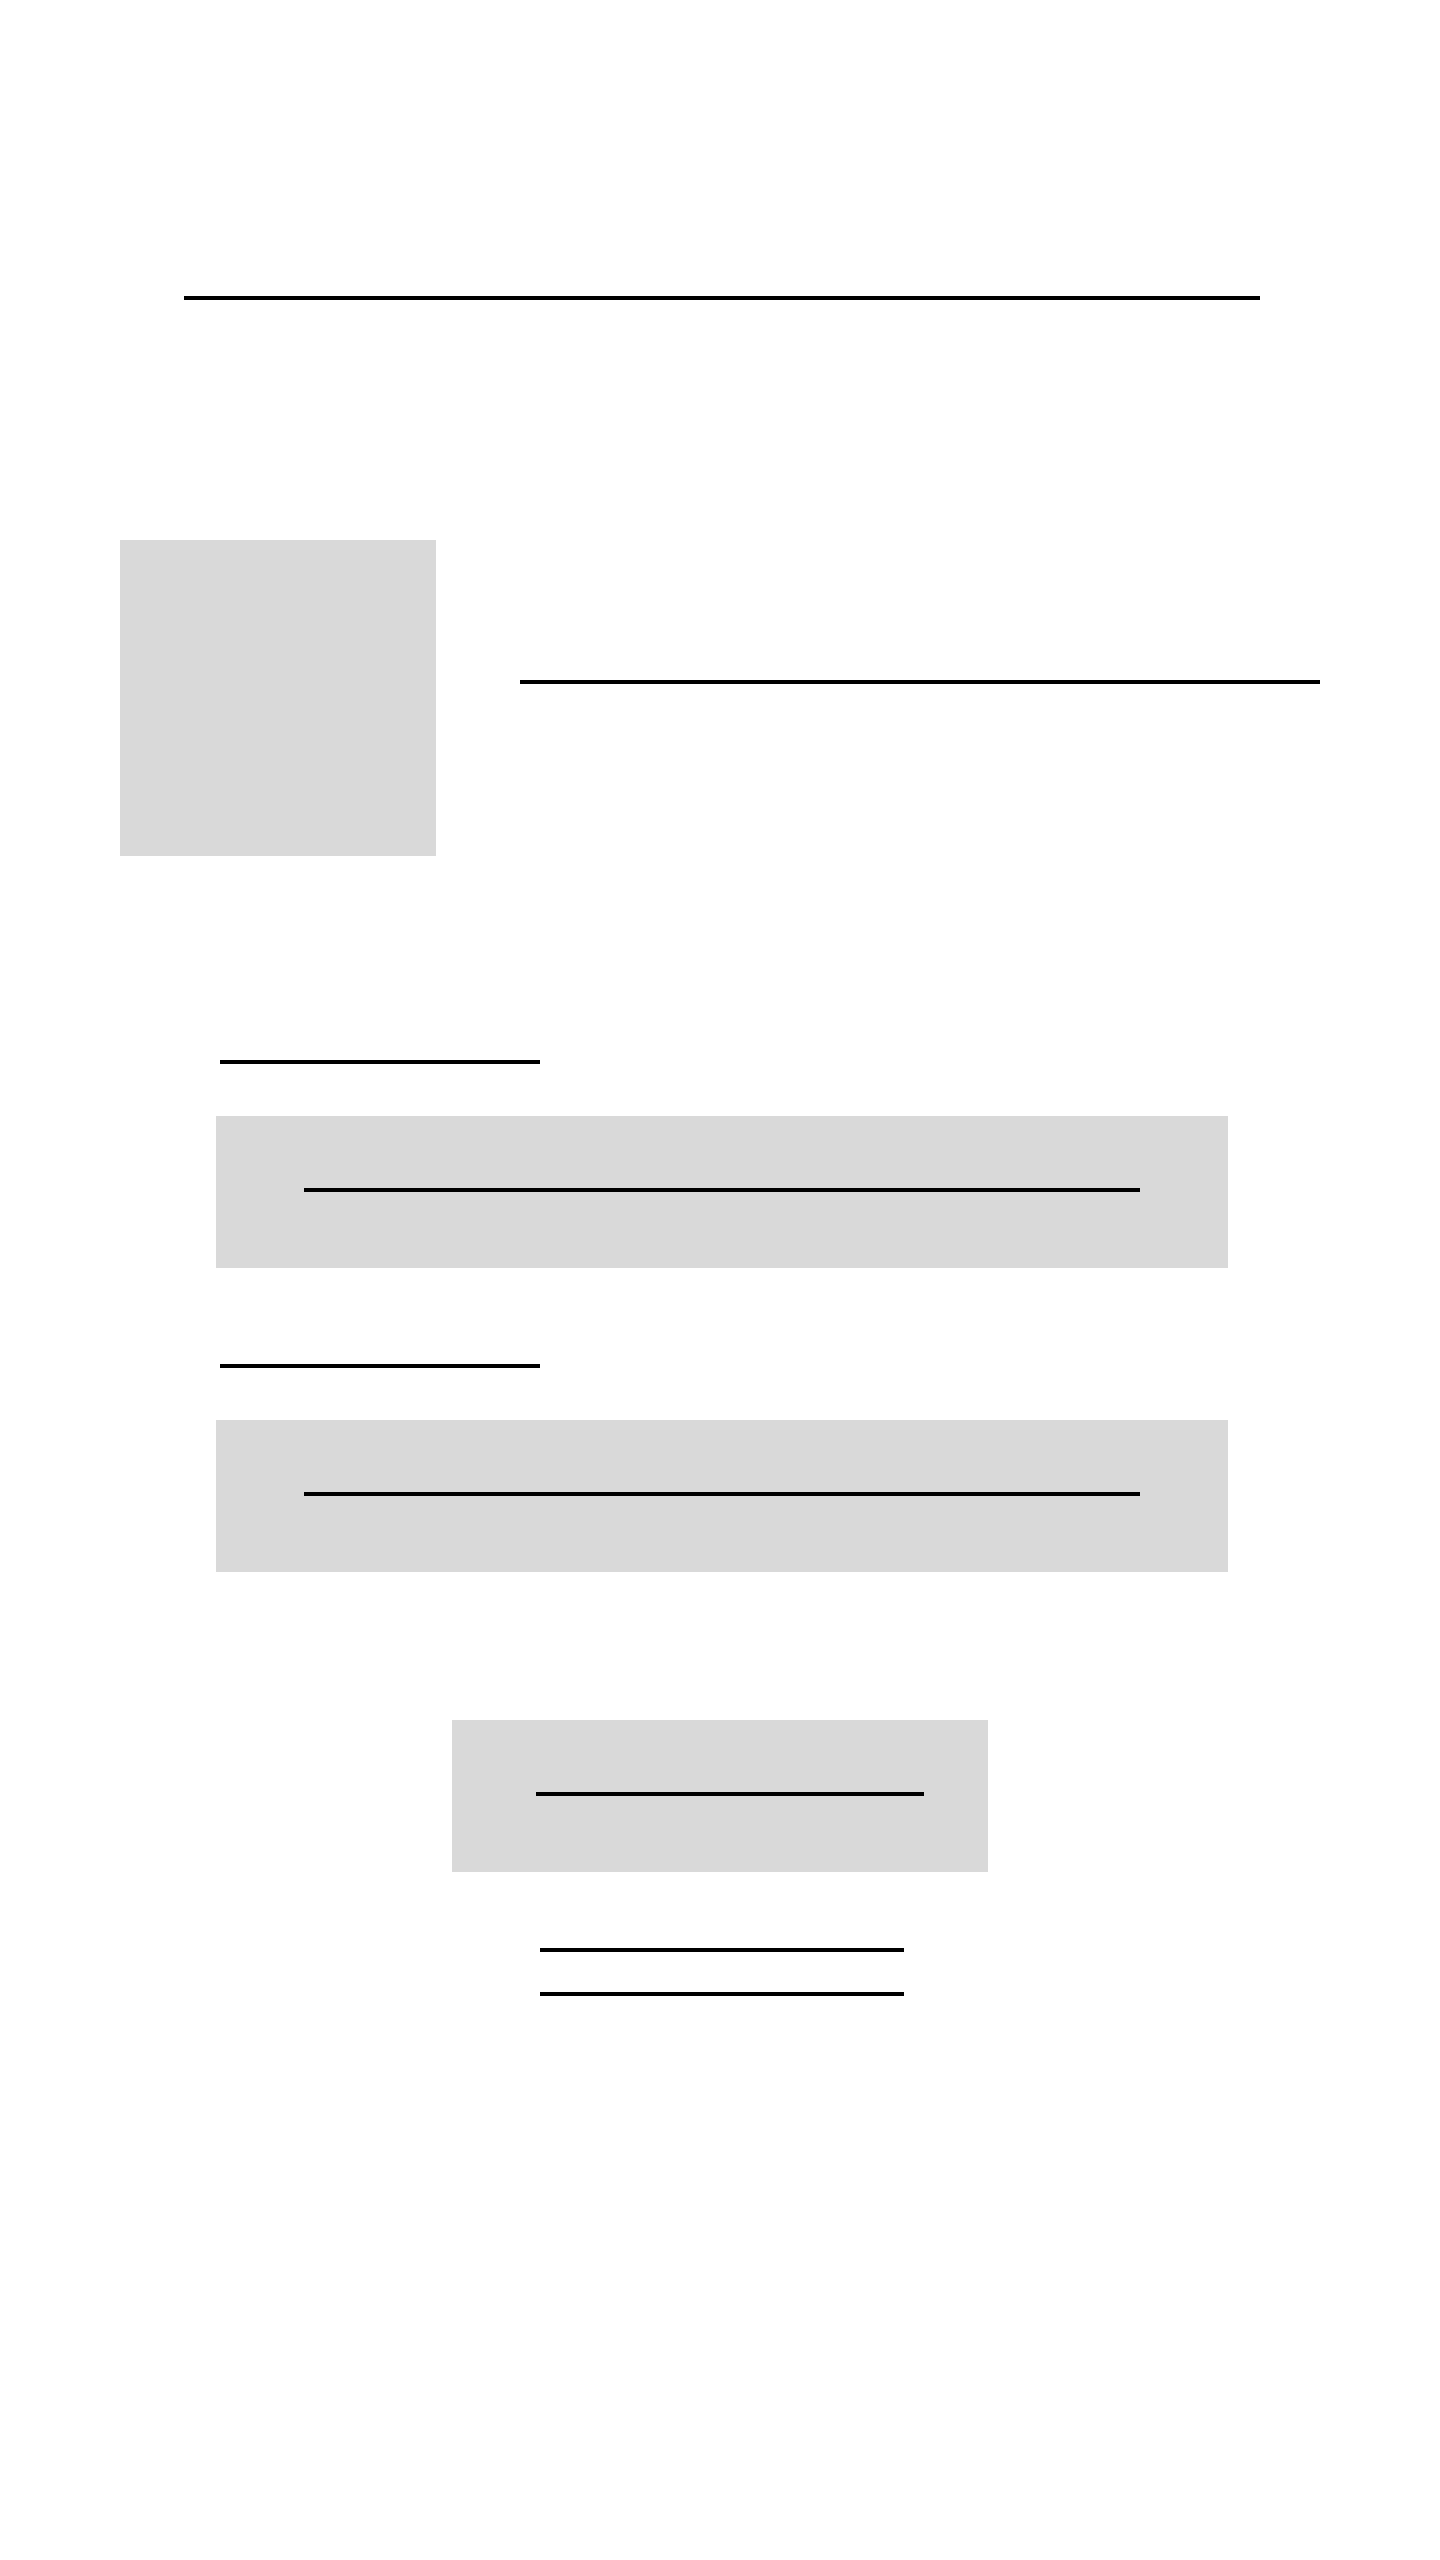
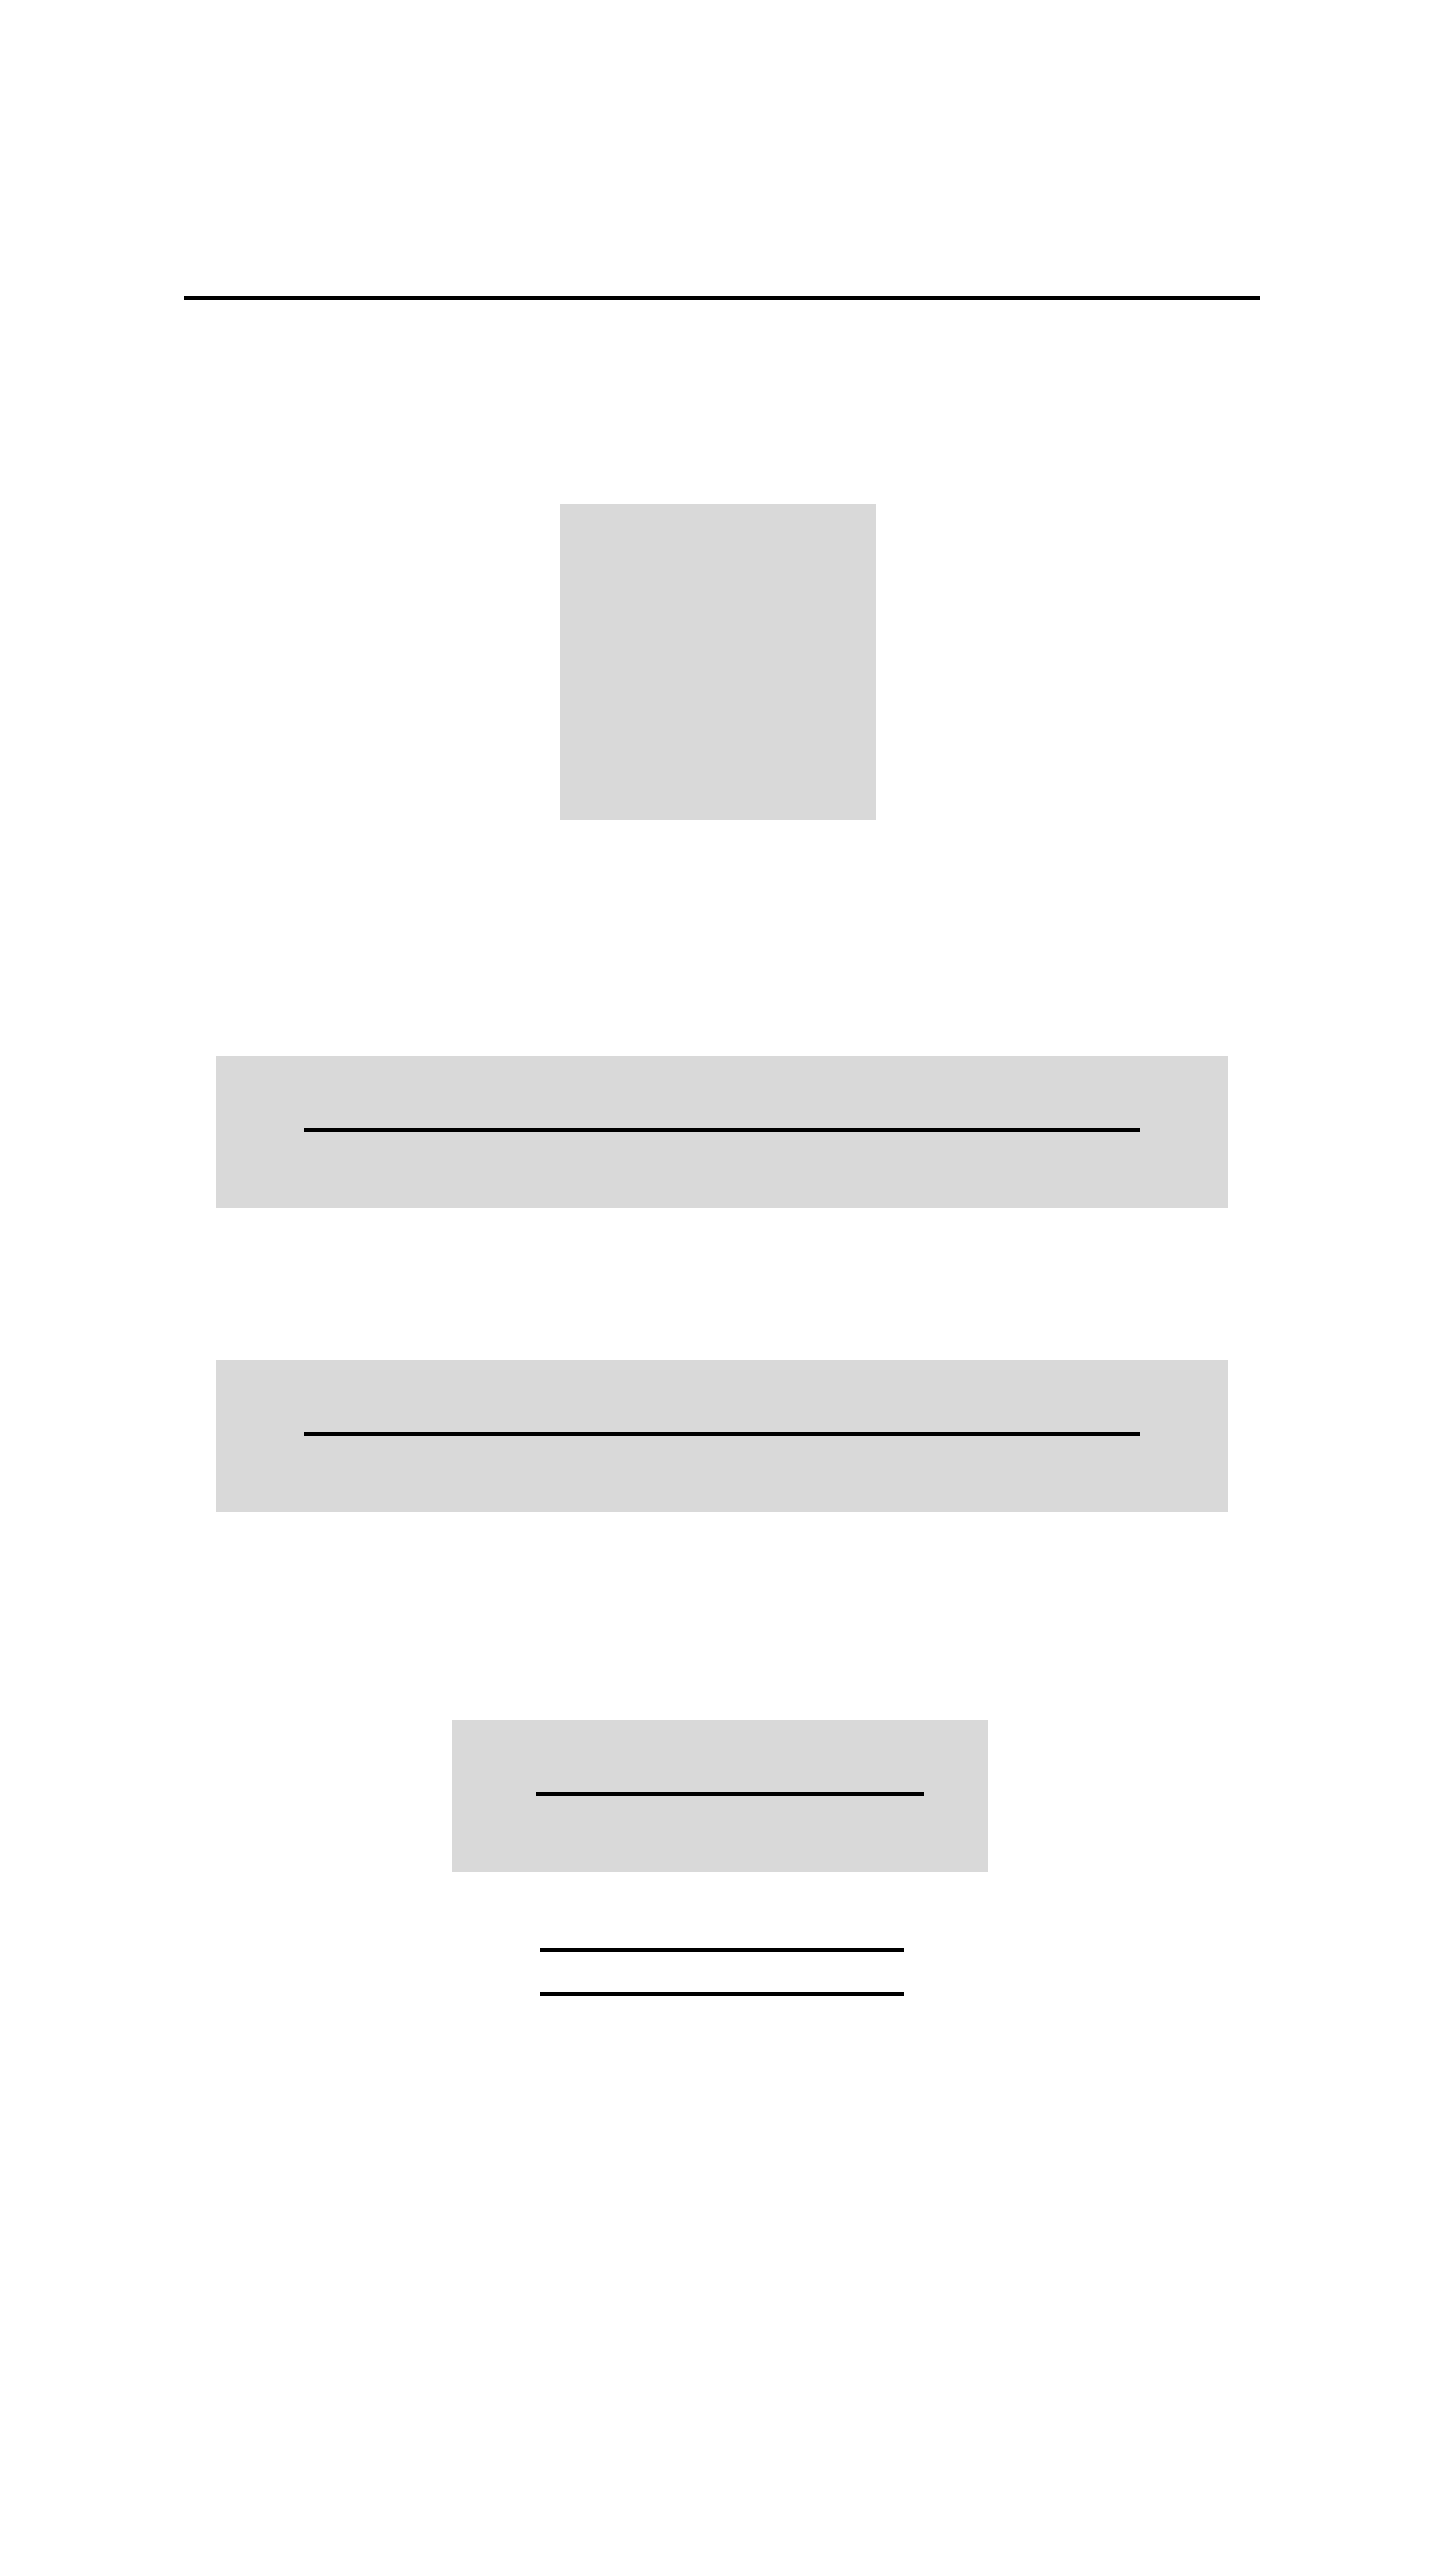
Added Hi-Fi, updated Low-Fi, added prototype, adjusted Readme

diff --git a/README.md b/README.md
@@ -51,25 +51,27 @@ The advent of generative AIs is estimated to be [no short of a revolution](https
 
 * User will be able to create AI generated pictures using a text description and an initialization image taken with the phone camera on the creation screen
 
-* User receives push notifications
+* User receives push notifications to notify them their image is ready
 
-* User can view the embedded image media within the detail view
+* Detail view shows comments
+
+* Detail view lets user add comments
 
 * User can log out of the app
 
-**Optional Nice-to-have Stories**
+* User can change their profile picture
+ 
+* User can change their password
 
-* Allow user to make their profile public or private 
+* User can change the visibility of their profile
+
+**Optional Nice-to-have Stories**
 
 * Share between other social media
 
 * Allow user to search for other accounts in the app 
 
 * User can refresh posts timeline by pulling down to refresh
-
-* User can comment on a post
-
-* User can like a post 
 
 * User can add friends to see their creations on their feed
 
@@ -81,19 +83,32 @@ The advent of generative AIs is estimated to be [no short of a revolution](https
 
 * Login
   * User can log into the app
+  
 * Register
   * User can create an account
+  
 * Feed
   * Create a stream to view creations posted on the app
+  * User can tap on a post and it will display a detailed view of that post 
+  
 * Detail
-  * User can tap on a post and it will display a detailed view of that post
+  * Shows the picture embedded in the post
+  * Shows comments
+  * User can add comments
+  
 * Create
   * User will be able to create AI generated pictures using a text description
   * User will be able to create AI generated pictures using a text description and an initialization image taken with the phone camera
+  * User can use advanced settings for creation
+  
 * Profile
   * The user profile shows the user’s creations
+  
 * Settings
   * User can log out of the app
+  * User can change their profile picture
+  * User can change their password
+  * User can change the visibility of their profile
 
 ### 3. Navigation
 
@@ -113,9 +128,6 @@ The advent of generative AIs is estimated to be [no short of a revolution](https
 * Settings -> Login (if user logs out in Settings)
 
 ## Wireframes
-
-[Add picture of your hand sketched wireframes in this section]
-<img src="YOUR_WIREFRAME_IMAGE_URL" width=600>
 
 ### Digital Wireframes & Mockups
 
@@ -144,6 +156,53 @@ The advent of generative AIs is estimated to be [no short of a revolution](https
 #### Create
 
 <img src='others\pictures\wireframes\lo-fi\Create.png' height='500'/>
+<br>
+
+<img src='others\pictures\wireframes\lo-fi\Create-img.png' height='500'/>
+<br><br>
+
+#### Profile
+
+<img src='others\pictures\wireframes\lo-fi\Profile.png' height='500'/>
+<br><br>
+
+#### Settings
+
+<img src='others\pictures\wireframes\lo-fi\Settings.png' height='500'/>
+<br><br>
+
+### 
+
+
+
+#### **[Hi-Fi]**
+
+#### Login
+
+<img src='others\pictures\wireframes\hi-fi\Login.png' height='500'/>
+<br><br>
+
+#### Register
+
+<img src='others\pictures\wireframes\hi-fi\Register.png' height='500'/>
+<br><br>
+
+#### Feed
+
+<img src='others\pictures\wireframes\hi-fi\Feed.png' height='500'/>
+<br><br>
+
+#### Detail
+
+<img src='others\pictures\wireframes\hi-fi\Detail.png' height='500'/>
+<br><br>
+
+#### Create
+
+<img src='others\pictures\wireframes\hi-fi\Create-txt2img.png' height='500'/>
+<br>
+
+<img src='others\pictures\wireframes\hi-fi\Create-img2img.png' height='500'/>
 <br><br>
 
 #### Profile
@@ -160,6 +219,8 @@ The advent of generative AIs is estimated to be [no short of a revolution](https
 
 ### Interactive Prototype
 
+<img src='others\pictures\wireframes\interactive.gif' height='500'/>
+<br><br>
 
 ## Schema
 
